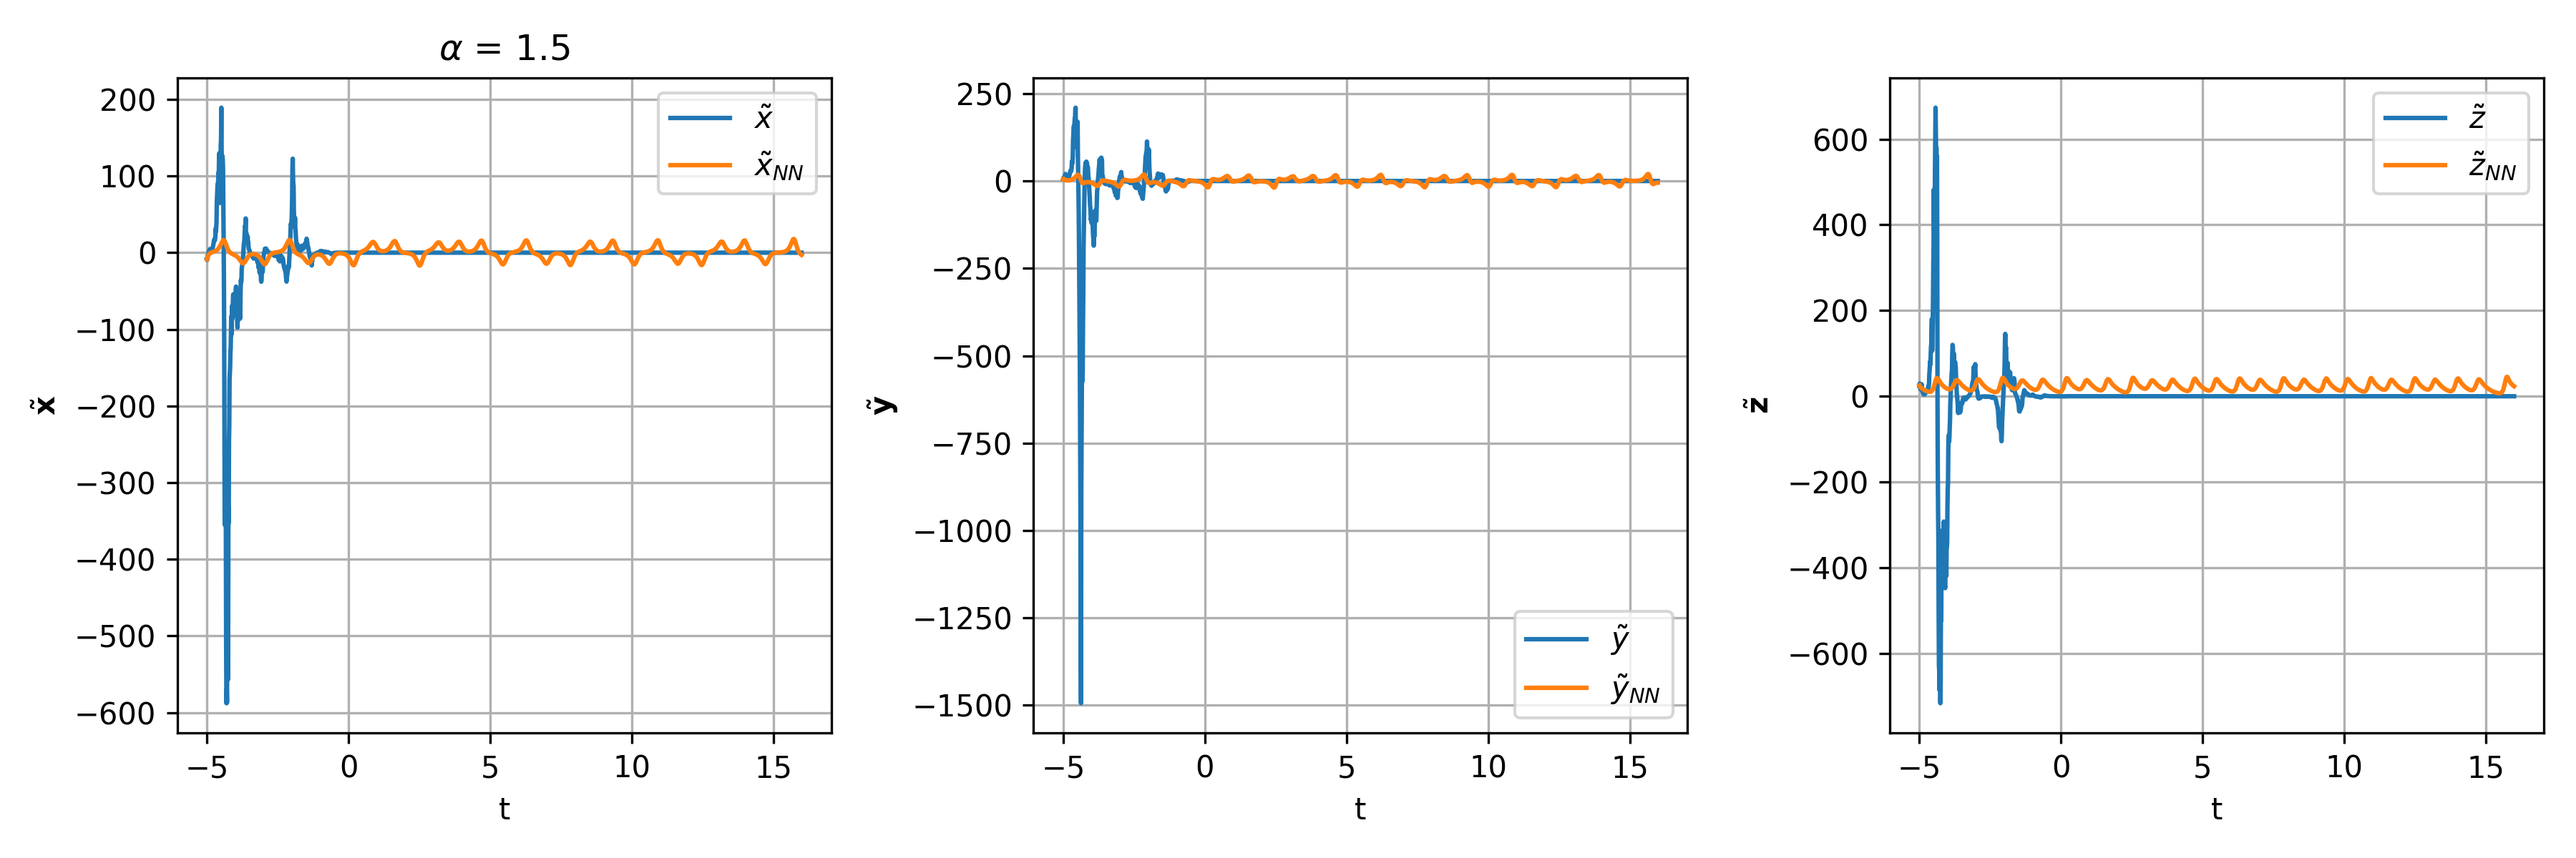
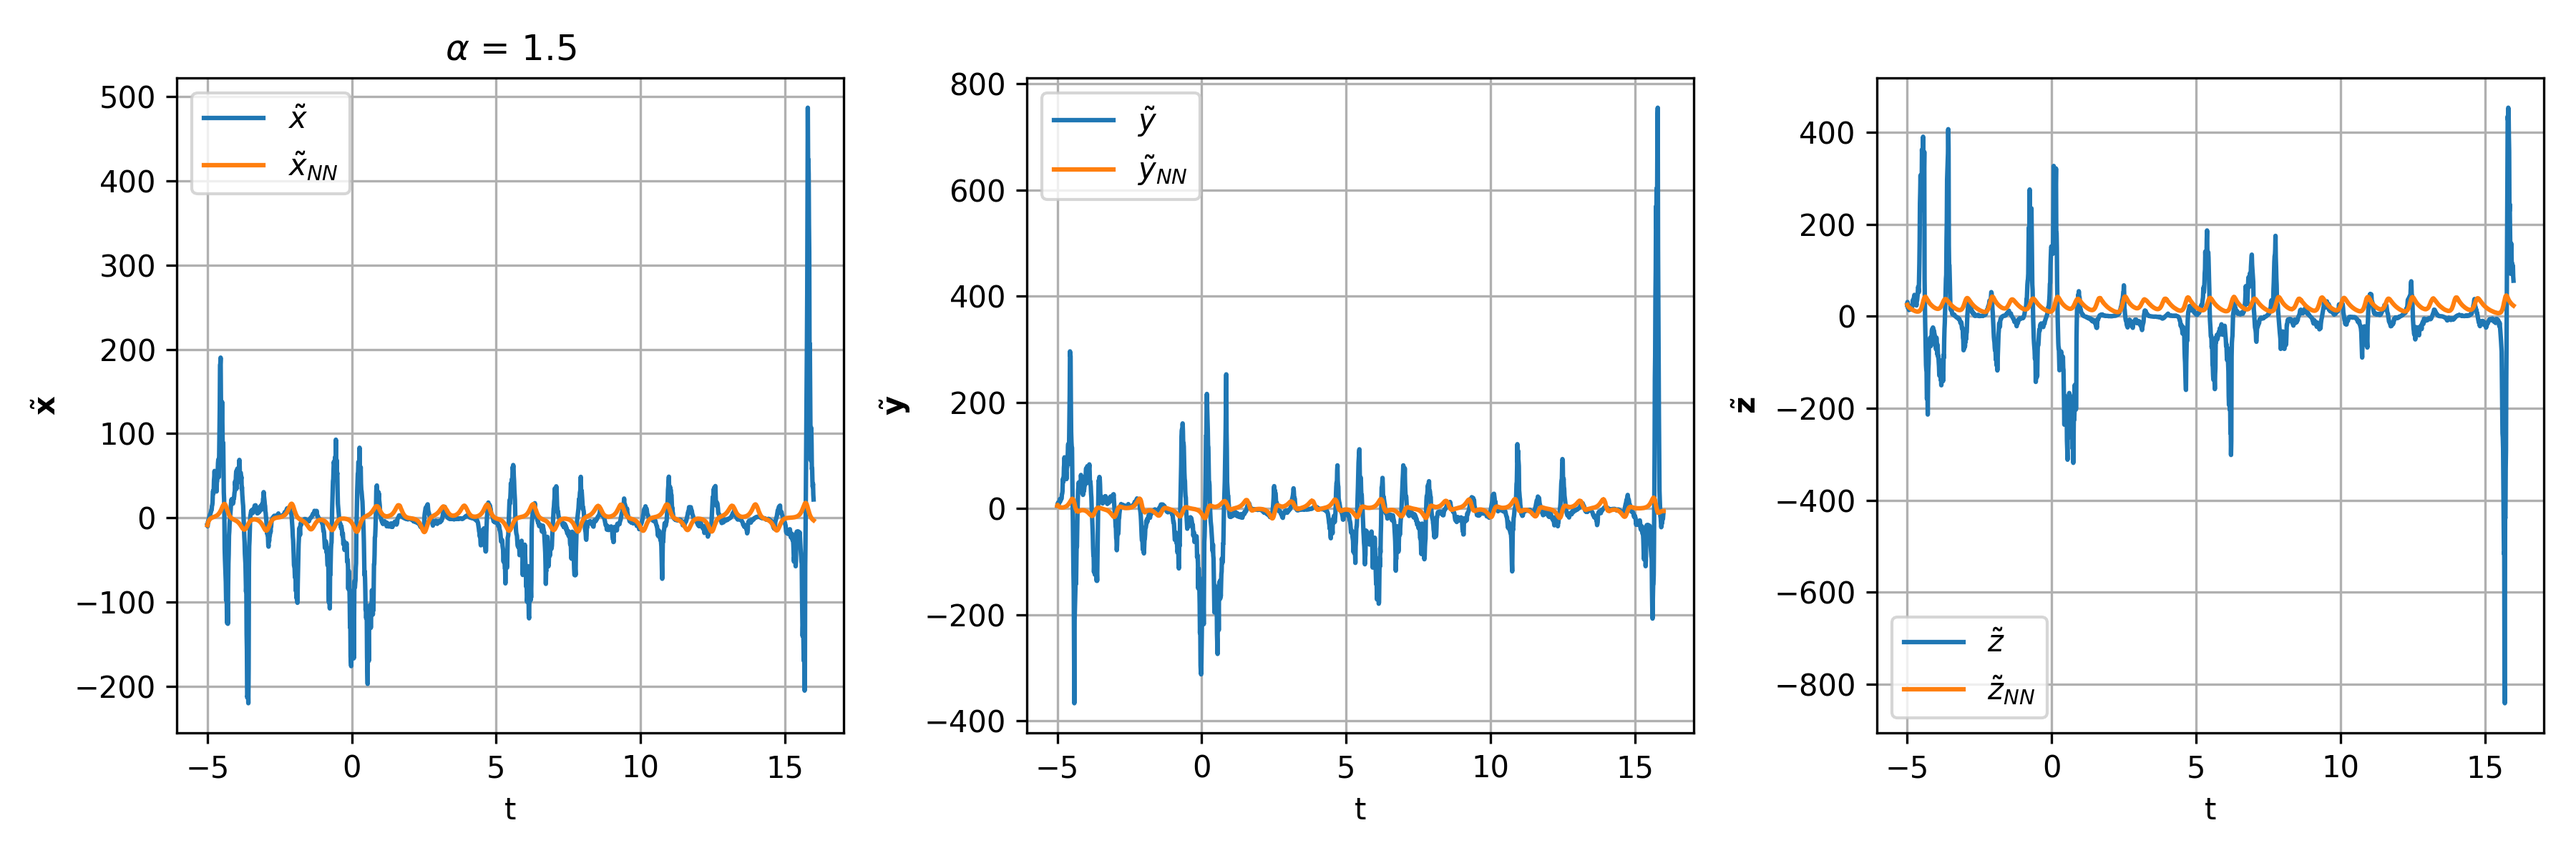
comparing to exact solution

diff --git a/diffusion-train-network.py b/diffusion-train-network.py
@@ -57,8 +57,8 @@ porder = 2
 
 lorenz = np.load('dg_lorenz_dt100_p' + str(porder) + '.npz')
 
-x_n = lorenz['xh'].T
-x_n = x_n[0:-1,:]
+xh = lorenz['xh'].T
+x_n = xh[0:-1,:]
 cs = lorenz['cs']
 t = lorenz['t']
 dt = t[1]-t[0]
@@ -216,6 +216,17 @@ plt.grid()
 plt.savefig('em-sol.png', format='png', dpi=300)
 plt.show()
 
+plt.figure(11)
+plt.plot(t,xh[:,0],label=r"$x$")
+plt.plot(t,xh[:,1],label=r"$y$")
+plt.plot(t,xh[:,2],label=r"$z$")
+plt.xlabel("t")
+plt.ylabel(r"$\mathbf{x}$")
+plt.legend()
+plt.grid()
+plt.savefig('xh-sol.png', format='png', dpi=300)
+plt.show()
+
 
 plt.figure(2,figsize=(12,4))
 plt.subplot(1,3,1)
@@ -244,7 +255,6 @@ plt.legend()
 plt.grid()
 plt.tight_layout()
 plt.savefig('tildes.png', format='png', dpi=300)
-
 plt.show()
 
 plt.figure(3,figsize=(12,4))
@@ -284,16 +294,15 @@ plt.show()
 
 plt.figure(5,figsize=(12,4))
 plt.subplot(1,3,1)
-plt.plot(t,x_EM[:,0],label=r"$x$")
+plt.plot(t,xh[:,0],label=r"$x$")
 plt.plot(t,xtilde_NN[:,0],label=r"$\tilde{x}_{NN}$")
 plt.legend()
 plt.xlabel("t")
 plt.ylabel(r"${\mathbf{x}}$")
-plt.title(r"$\alpha$ = " + str(alpha))
 plt.grid()
 
 plt.subplot(1,3,2)
-plt.plot(t,x_EM[:,1],label=r"$y$")
+plt.plot(t,xh[:,1],label=r"$y$")
 plt.plot(t,xtilde_NN[:,1],label=r"$\tilde{y}_{NN}$")
 plt.legend()
 plt.xlabel("t")
@@ -301,7 +310,7 @@ plt.ylabel(r"${\mathbf{y}}$")
 plt.grid()
 
 plt.subplot(1,3,3)
-plt.plot(t,x_EM[:,2],label=r"$z$")
+plt.plot(t,xh[:,2],label=r"$z$")
 plt.plot(t,xtilde_NN[:,2],label=r"$\tilde{z}_{NN}$")
 plt.xlabel("t")
 plt.ylabel(r"${\mathbf{z}}$")
